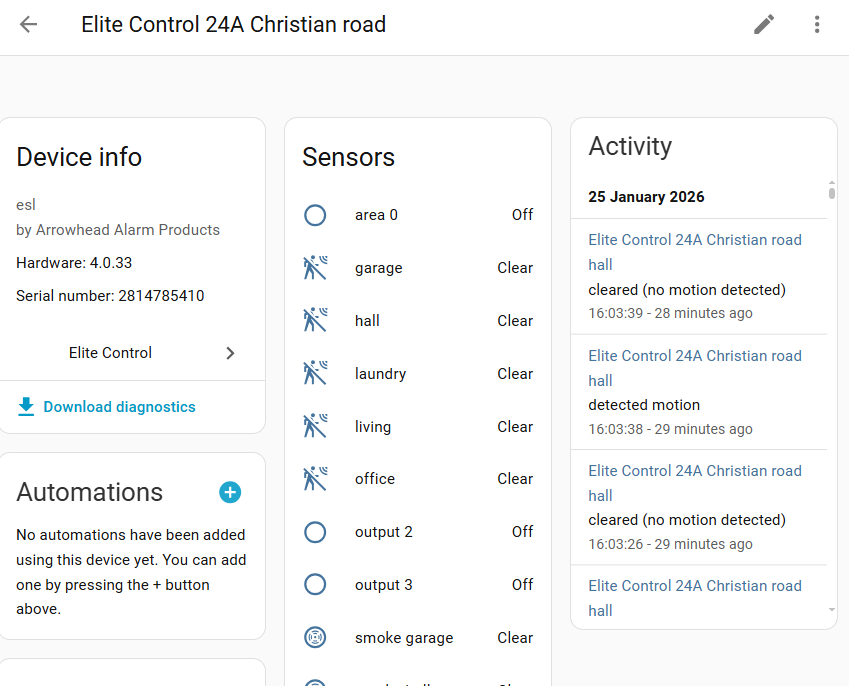
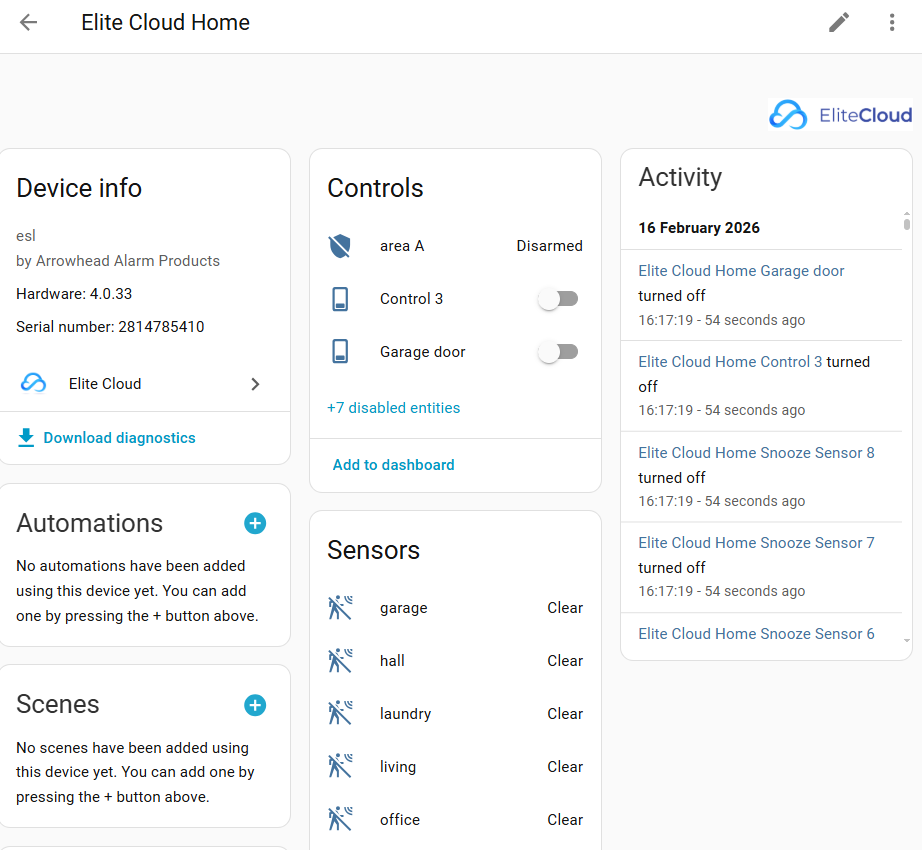
Update documentation

diff --git a/README.md b/README.md
@@ -11,8 +11,6 @@
 [Home Assistant](https://home-assistant.io/) Custom Integration for Arrowhead Alarm Systems ESL, ESL-2, Elite S and Elite S devices.
 It is likely that other systems supported by the Elite Cloud app will function with this integration as well.
 
-The custom integration is still a work-in-progress and currently only provides read-only entities. So status of area's, input's and output's of the device. But no methods yet to arm or disarm an area.
-
 This component connects to the the Elite Cloud servers and automatically determines which devices are available there for the specified account.
 
 There are several other Home Assistant integrations available for Arrowhead alarm systems, so make sure you choose the right one:
@@ -48,6 +46,7 @@ Copying all files in `/custom_components/elitecloud/` folder from this repo into
     │   ├── translations
     │   │   └── en.json
     │   ├── __init__.py
+    │   ├── alarm_control_panel.py
     │   ├── api.py
     │   ├── binary_sensor.py
     │   ├── config_flow.py
@@ -58,7 +57,8 @@ Copying all files in `/custom_components/elitecloud/` folder from this repo into
     │   ├── entity.py
     │   ├── helper.py
     │   ├── manifest.json
-    │   └── strings.json  
+    │   ├── strings.json
+    │   └── switch.py
     ```
 
 2. Restart Home Assistant.
@@ -88,9 +88,9 @@ After succcessful setup, all devices from the Smart Water profile should show up
 
 ![controller_list](documentation/controller_list.png)
 
-On the individual device pages, the hardware related device information is displayed, together with sensors typically grouped into main entity sensors, controls and diagnostics.
+On the individual device pages, the hardware related device information is displayed, together with sensors typically grouped into main entity controls, sensors and configuration.
 
-Any sensors that you do not need can be manually disabled using the Home Assistant integration pages.
+Any entities that you do not need can be manually disabled using the Home Assistant integration pages.
 
 ![controller_detail](documentation/controller_detail.png)
 
